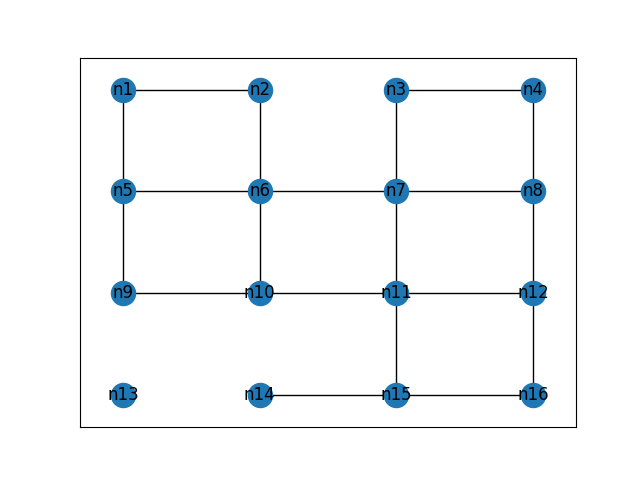
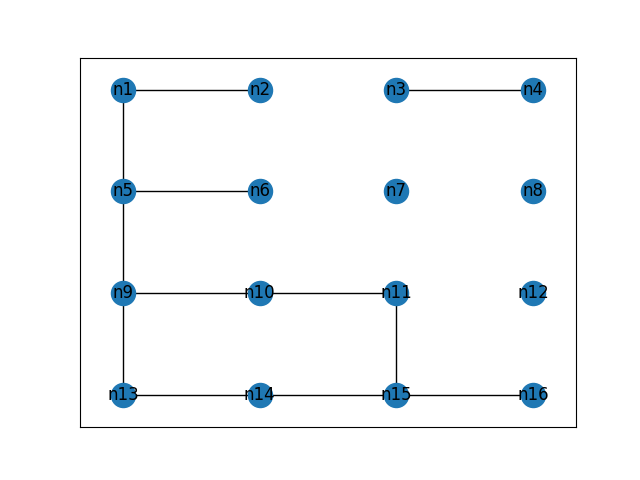
checkpoint slmp global works (?)

diff --git a/main.py b/main.py
@@ -16,11 +16,13 @@ import networkx as nx
 import matplotlib.pyplot as plt
 import copy
 import numpy as np
-
+import random
 import constants as consts
 import lower_level_fns
 
-ns.util.simtools.set_random_state(seed=0)
+seed = 0
+ns.util.simtools.set_random_state(seed=seed)
+random.seed(seed)
 ns.qubits.qformalism.set_qstate_formalism(ns.qubits.qformalism.QFormalism.KET)
 
 # tmp_qubit_teleported_info = []
@@ -29,8 +31,8 @@ class config:
     num_of_qubits_per_memory = 4
     # connections_length = 4e-3
     connections_length = 20
-    channel_loss_p_loss_init = 0.2 
-    channel_loss_p_loss_length = 0#0.2
+    channel_loss_p_loss_init = 1-0.6 #0.2 
+    channel_loss_p_loss_length = 0 #0.2
 
 class MyNode(ns.nodes.Node):
     def __init__(self, name) -> None:
@@ -424,8 +426,24 @@ def main() -> None:
     }
     
     data_ebits_per_timeslot = []
-
     total_timeslots = 10
+    q = 1
+    # x = no. of hops
+    x = 2
+    # x = 4
+    # x = 6
+
+    if x == 2:
+        src_node_name = 'n7'
+        dst_node_name = 'n4'
+    elif x == 4:
+        src_node_name = 'n10'
+        dst_node_name = 'n4'
+    elif x == 6:
+        src_node_name = 'n13'
+        dst_node_name = 'n4'
+
+    
     for timeslot in range(total_timeslots):
         print(f"timeslot {timeslot+1} out of {total_timeslots}")
         ns.sim_reset()
@@ -455,8 +473,7 @@ def main() -> None:
         # internal phase:
         # ns.sim_reset()
         print('Start of swapping protocols / internal phase (partial)')
-        src_node_name = 'n10'
-        dst_node_name = 'n4'
+        
         shortest_paths = network.shortest_src_dst_paths(src = src_node_name, dst = dst_node_name, net_graph=network.ext_phase_subgraph())
         if shortest_paths == []:
             print('no e2e paths possible in this timeslot. End of protocols for this timeslot')
@@ -481,27 +498,41 @@ def main() -> None:
             print('Start of teleportation protocols')
             for p in range(len(shortest_paths)):
                 print(f'teleporation on path # {p+1} out of {len(shortest_paths)}')
-                # qbit_to_send = create_qubits(1, no_state=True)[0]
-                # state_assigned = assign_qstate(qubits=[qbit_to_send], qrepr=np.array([0.5, 0.5]))
-                qbit_to_send = create_qubits(1)[0]
-                qbit_to_send = lower_level_fns.temp_assign_state(qbit_to_send)
-                src_protocol = SrcProtocol(network.nodes[src_node_name], dst_node_name, shortest_paths[p][1], qbit_to_send)
-                dst_protocol = DstProtocol(network.nodes[dst_node_name], src_node_name, shortest_paths[p][-2])
-                src_protocol.start()
-                dst_protocol.start()
-                run_stats = ns.sim_run()
-                # print(run_stats)
-
-                # print()
-                # print(tmp_qubit_teleported_info[0])
-                # print(tmp_qubit_teleported_info[1])
+                rs = []
+                swap_nodes = shortest_paths[p][1:-1]
+                for _ in range(len(swap_nodes)):
+                    rs.append(random.random())
+                proceed = True
+                for r in rs:
+                    if r > q:
+                        # internal link failure
+                        proceed = False
+                        data_ebits_per_timeslot[-1] = 0
                 
-                # print('\nshould be:')
-                # # print(state_assigned.qrepr)
-                # print(ns.qubits.reduced_dm([qbit_to_send]))
+                if proceed:
+                    # qbit_to_send = create_qubits(1, no_state=True)[0]
+                    # state_assigned = assign_qstate(qubits=[qbit_to_send], qrepr=np.array([0.5, 0.5]))
+                    qbit_to_send = create_qubits(1)[0]
+                    qbit_to_send = lower_level_fns.temp_assign_state(qbit_to_send)
+                    src_protocol = SrcProtocol(network.nodes[src_node_name], dst_node_name, shortest_paths[p][1], qbit_to_send)
+                    dst_protocol = DstProtocol(network.nodes[dst_node_name], src_node_name, shortest_paths[p][-2])
+                    src_protocol.start()
+                    dst_protocol.start()
+                    run_stats = ns.sim_run()
+                    # print(run_stats)
 
-                # fidelity = ns.qubits.fidelity(tmp_qubit_teleported_info[2], ns.y0, squared=True)
-                # print('fidelity:', fidelity)
+                    # print()
+                    # print(tmp_qubit_teleported_info[0])
+                    # print(tmp_qubit_teleported_info[1])
+                    
+                    # print('\nshould be:')
+                    # # print(state_assigned.qrepr)
+                    # print(ns.qubits.reduced_dm([qbit_to_send]))
+
+                    # fidelity = ns.qubits.fidelity(tmp_qubit_teleported_info[2], ns.y0, squared=True)
+                    # print('fidelity:', fidelity)
+                else:
+                    print('internal link failure')
 
             print('End of teleportation protocols')
 
